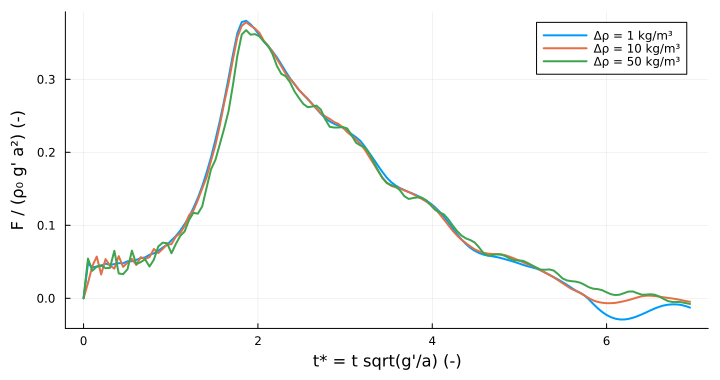
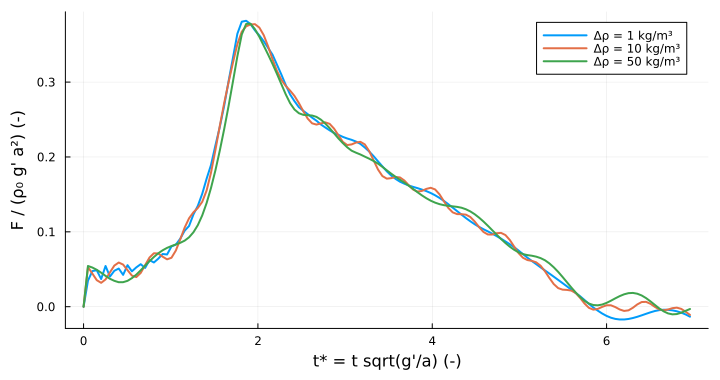
Follow-up to the Copilot review: fix its tests, update the force results
- Model: build the reference density profile in the model's element type
  (T.(...)). Float32 models could not be constructed at all before (the
  struct expects Vector{T}); this makes Copilot's Float32 bed test pass and
  leaves Float64 unchanged.
- test_bed_geometry.jl: move test_verify_invalid_bed_velocities_are_masked_
  before_advection after the definition of bed_test_config (it raised
  UndefVarError before).
- Experiment: rerun with the corrected obstacle force, which now includes
  the free-surface pressure rho0 g eta. Peak forces 0.382 / 0.377 / 0.378
  rho0 g' a^2 for 1 / 10 / 50 kg/m^3 (previously 0.380 / 0.378 / 0.367);
  force figure and README updated. Front positions unchanged.
- Technical documentation for the two new tests and the Float32 note.

diff --git a/experiments/lock_exchange_obstacle/README.md b/experiments/lock_exchange_obstacle/README.md
@@ -43,7 +43,7 @@ Results
 ![Density at t* = 0, 1, 2, 3, 5 and 7](figures/lock_exchange_obstacle_snapshots.png)
 
 - **t* = 1:** the column collapses; the heavy water forms a nose that runs towards the obstacle.
-- **t* = 1.9:** the front reaches the obstacle. Part of the current is lifted over it, while the light water flows
+- **t* = 1.9:** the front reaches the obstacle; the force on it peaks. Part of the current is lifted over it, while the light water flows
   back above the current. Kelvin-Helmholtz billows form on the interface.
 - **t* = 3-5:** the current continues behind the obstacle as a turbulent head; the column behind it has drained to a
   thin layer.
@@ -63,13 +63,16 @@ and the horizontal pressure force on the obstacle collapse when plotted against 
 
 | drho (kg/m³) | front at obstacle (t*) | front at 3.9a (t*) | peak force F/(rho0 g' a²) | peak force (N/m) |
 |---|---|---|---|---|
-| 1 | 1.87 | 6.30 | 0.380 at t* = 1.87 | 0.080 |
-| 10 | 1.92 | 6.30 | 0.378 at t* = 1.87 | 0.79 |
-| 50 | 1.92 | 6.50 | 0.367 at t* = 1.87 | 3.8 |
-| 10 (1 mm grid) | 1.89 | 6.27 | 0.386 at t* = 1.89 | |
+| 1 | 1.87 | 6.30 | 0.382 at t* = 1.87 | 0.080 |
+| 10 | 1.92 | 6.30 | 0.377 at t* = 1.97 | 0.79 |
+| 50 | 1.92 | 6.50 | 0.378 at t* = 1.92 | 4.0 |
+| 10 (1 mm grid) | 1.89 | 6.27 | 0.390 at t* = 1.94 | |
 
-The dimensionless results agree within about 3 %, and the finer grid confirms them. The largest deviations are for
-50 kg/m³ (a slightly slower front, small early force oscillations from free-surface waves).
+The dimensionless front positions agree within about 3 % and the peak forces within about 1.5 %; the finer grid
+confirms them. The largest deviation is the slightly slower front for 50 kg/m³. The force is the horizontal pressure
+force per unit width: the total pressure (hydrostatic and non-hydrostatic part plus the free-surface pressure
+rho0 g eta, which the model applies separately) integrated over the obstacle walls. The small oscillations around
+t* < 1 come from free-surface waves.
 
 How large the density difference can be: the solver itself has no limit. The pressure solves are direct, and all three
 runs are stable at the same CFL numbers. The limit is physical: the Boussinesq approximation neglects terms of relative

diff --git a/test/TESTS_TECHNICAL_DOCUMENTATION.md b/test/TESTS_TECHNICAL_DOCUMENTATION.md
@@ -1073,7 +1073,23 @@ face, w = 0). An explicit `bed_level`, also all zeros, uses the masked code path
 Purpose: masks of an obstacle three cells high in two columns (lowest wet cell, wet-cell count, face bed levels, wall and
 interior faces of the obstacle, bed face of w); a zero bed has no solid cells and all faces open; invalid input (not a
 whole number of cells, fewer than two wet cells, negative, wrong length, periodic) raises `ArgumentError`;
-`copy_config` copies the bed level; the plotting helper leaves solid cells blank (NaN) and passes flat-bed fields through.
+`copy_config` copies the bed level; the plotting helper leaves solid cells blank (NaN) and passes flat-bed fields through;
+a Float32 model builds the same masks (the alignment check uses the Float64 cell height, since 1.0/0.2f0 is not a whole
+number in Float32).
+
+### test_verify_bed_mass_and_surface_pressure_accounting
+
+Purpose: with solid cells the constituent mass counts the wet cells only (an obstacle of 2 x 3 cells in a 12 m x 4 m
+domain leaves 46.8 m² of water, mass 46,800 kg/m for 1000 kg/m³), unaffected by the unused density stored in solid
+cells; with the variable top layer the surface elevation adds $\rho\,\eta\,\Delta x$ per column (48,000 kg/m for
+$\eta=0.1$ m). The obstacle-force diagnostic of the experiment (`leo_obstacle_force`) includes the free-surface pressure
+$\rho_0 g(\eta_{left}-\eta_{right})$, which the model applies separately from `state.p`: with $p=0$ and an elevation
+difference of 0.2 m over a 0.6 m high obstacle the force is $\rho_0 g\cdot0.2\cdot0.6$.
+
+### test_verify_invalid_bed_velocities_are_masked_before_advection
+
+Purpose: arbitrary velocities on closed u-faces and on or below the bed (here 10 m/s, e.g. from an initializer that
+does not know the bed) are removed at the start of the step, so one step gives the same state as from a clean start.
 
 ### test_verify_flat_bed_reproduces_legacy_results_hydrostatic
 
